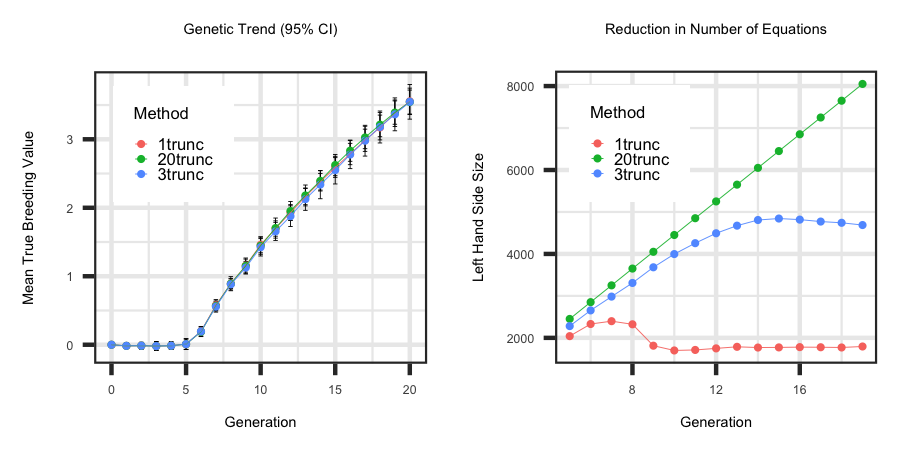
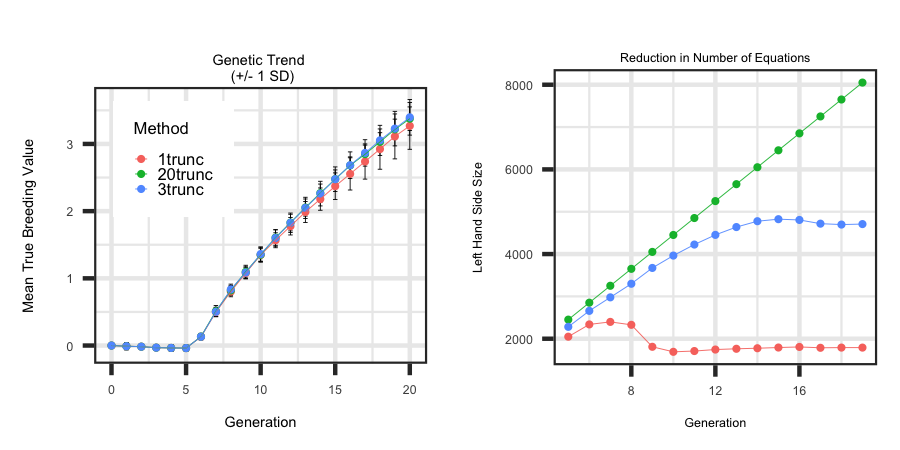
initial commit

diff --git a/_layouts/example7.html b/_layouts/example7.html
@@ -178,7 +178,7 @@
 			ggplot(plotdf, aes(x=Generation, y=Mean, colour=Method)) +  <br>
   			&emsp; geom_errorbar(aes(ymin=Mean-SD, ymax=Mean+SD), colour="black", width=.4, size = 0.5, position=pd) + <br>
   			&emsp; geom_point(size=2.0) + geom_line(size=0.50) + theme_bw() + <br>
-  			&emsp; labs(title = "Genetic Trend (95% CI)", x = "Generation", y = "Mean True Breeding Value") + <br>
+  			&emsp; labs(title = "Genetic Trend \n (+/- 1 SD)", x = "Generation", y = "Mean True Breeding Value") + <br>
   			&emsp; theme(plot.title = element_text(size = 16,hjust = 0.5),axis.title = element_text(size = 12), <br>
         	&emsp; legend.position="bottom",axis.text=element_text(size=10)) <br> <br>
 			############################################################################## <br>
@@ -223,8 +223,6 @@
         	&emsp; legend.position="bottom",axis.text=element_text(size=10)) <br>
 		</div>
 	</div>
-	<br>
-		
 	<div id = "image">
 		<p><img src="{{ site.baseurl }}/images/Example7Figures.png" ></p>
 	</div>
